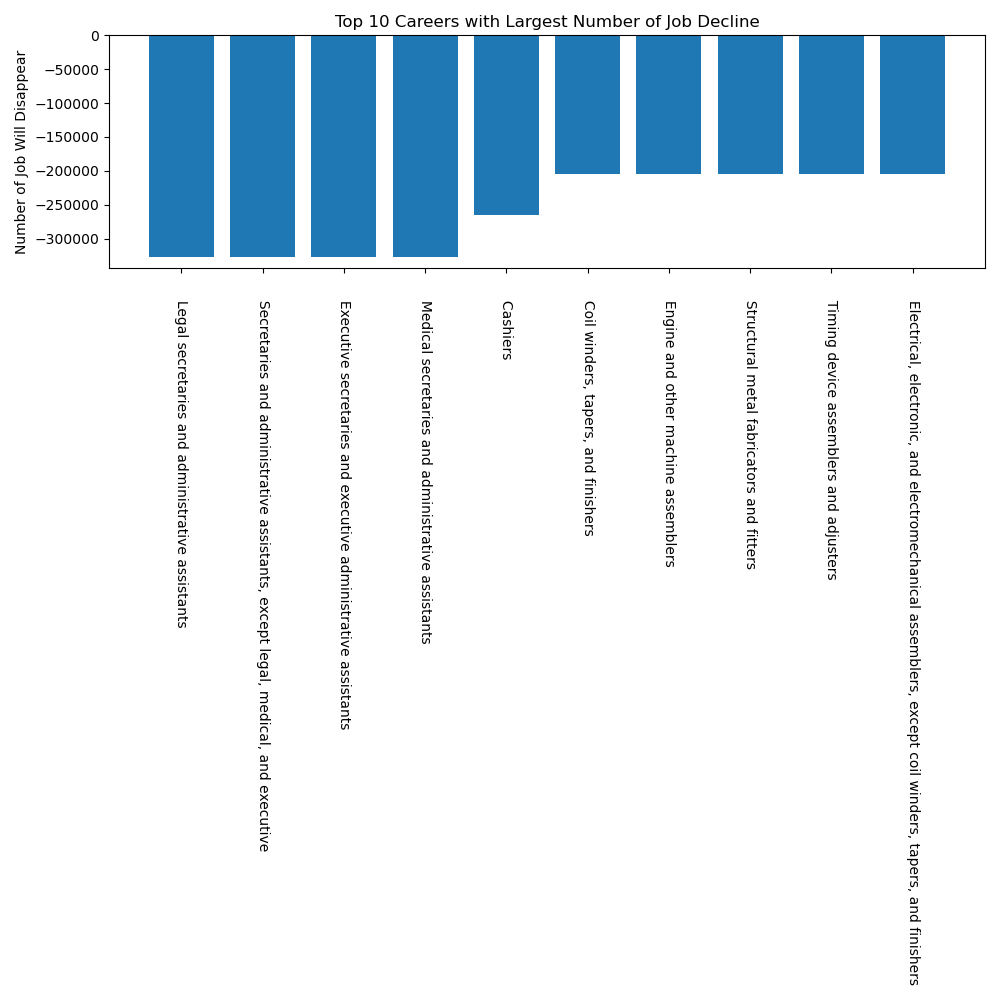
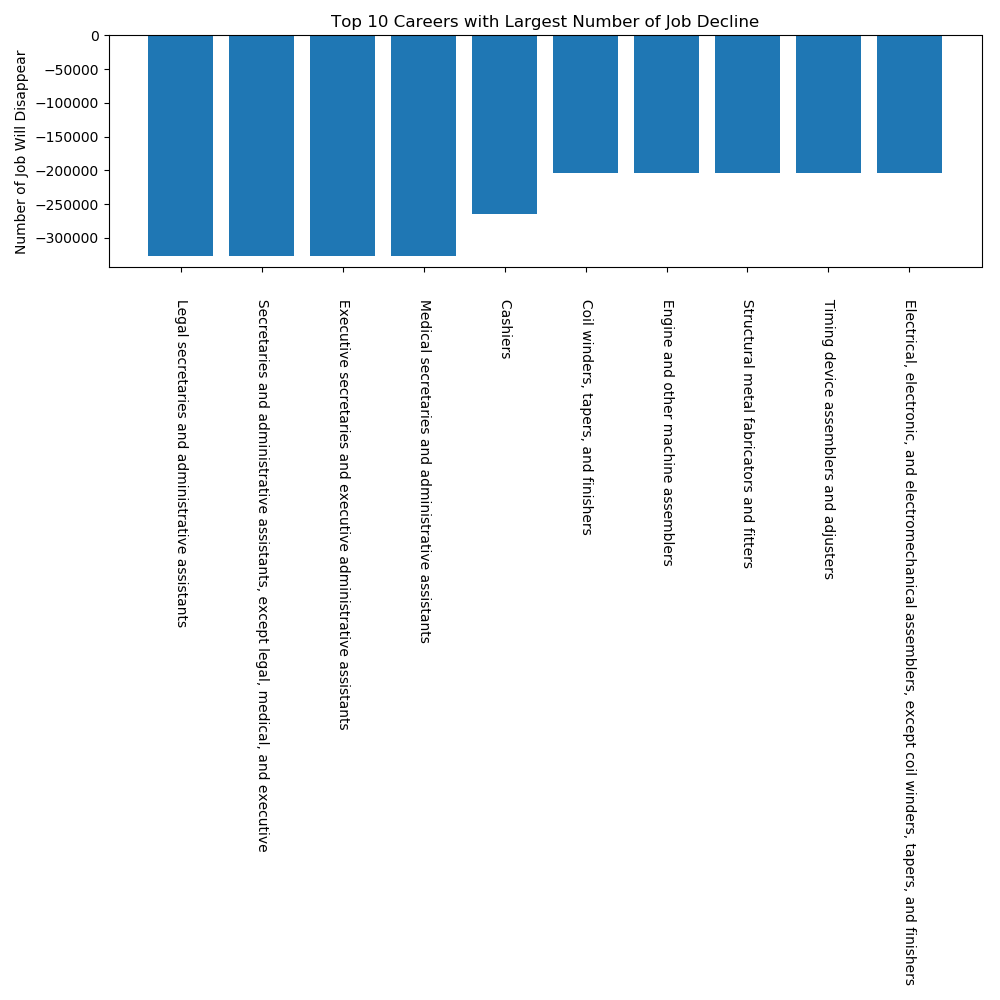
Completed Question 3

diff --git a/scraping.py b/scraping.py
@@ -1,4 +1,10 @@
-import requests 
+"""
+This file contains functions that
+scrape the detailed occupation data from the BLS website.
+"""
+
+
+import requests
 from bs4 import BeautifulSoup
 import csv
 import pandas as pd
@@ -6,56 +12,27 @@ import numpy as np
 from re import search
 
 
-def main():
-    get_occupation_links()
-    
-    occupation_df = pd.read_csv('occupation_links.csv', encoding = "ISO-8859-1")
-    occupation_df = occupation_df.set_index('url')
-
-    """
-    mini_occupation_df = occupation_df.head(10)
-    print(mini_occupation_df)
-
-    link_list = mini_occupation_df.index.tolist()
-
-    counter = 0
-
-    for link in link_list:
-        mini_occupation_df.update(expand_occupation_data(link))
-
-        print("Success!" + " " + str(counter))
-        counter += 1
-
-    mini_occupation_df.to_csv('test_data.csv')
-    """
-    link_list = occupation_df.index.tolist()
-
-    counter = 0
-
-    for link in link_list:
-        occupation_df.update(expand_occupation_data(link))
-
-        print("Success!" + " " + str(counter))
-        counter += 1
-
-    occupation_df.to_csv('occupation_data.csv')
-
-
 def get_occupation_links():
-    URL = "https://www.bls.gov/ooh/occupation-finder.htm?pay=&education=&training=&newjobs=&growth=&submit=GO/"
-    r = requests.get(URL) 
-    
-    soup = BeautifulSoup(r.content, 'html5lib') # If this line causes an error, run 'pip install html5lib' or install html5lib
+    """
+    Parses the URL into the BeautifulSoup format
+    and gets the URLs to the detailed data for each occupation.
+    Then it writes those urls into a CSV file.
+    """
+    URL = ("https://www.bls.gov/ooh/occupation-finder.htm?"
+           "pay=&education=&training=&newjobs=&growth=&submit=GO/")
+    r = requests.get(URL)
+
+    soup = BeautifulSoup(r.content, 'html5lib')
 
     occupations = []
-    
-    table = soup.find('table', attrs = {'id': 'occfinder'})
+
+    table = soup.find('table', attrs={'id': 'occfinder'})
 
     table_body = table.find('tbody')
-    
+
     for row in table_body.findAll('tr'):
-        occupation = {} 
-        occupation['occupation_name'] = row.strong.text 
+        occupation = {}
+        occupation['occupation_name'] = row.strong.text
         occupation['url'] = "https://www.bls.gov" + row.a['href']
         occupation['2019 Median Pay'] = np.nan
         occupation['Typical Entry-Level Education'] = np.nan
@@ -64,19 +41,26 @@ def get_occupation_links():
         occupation['Number of Jobs, 2019'] = np.nan
         occupation['Job Outlook, 2019-29'] = np.nan
         occupation['Employment Change, 2019-29'] = np.nan
-        occupations.append(occupation) 
-    
+        occupations.append(occupation)
+
     filename = 'occupation_links.csv'
-    with open(filename, 'w', newline='') as f: 
-        w = csv.DictWriter(f,['occupation_name','url', '2019 Median Pay',
-                              'Typical Entry-Level Education', 'Work Experience in a Related Occupation',
-                              'On-the-job Training', 'Number of Jobs, 2019', 'Job Outlook, 2019-29', 'Employment Change, 2019-29'])
-        w.writeheader() 
-        for occupation in occupations: 
+    with open(filename, 'w', newline='') as f:
+        w = csv.DictWriter(f, ['occupation_name', 'url', '2019 Median Pay',
+                               'Typical Entry-Level Education',
+                               'Work Experience in a Related Occupation',
+                               'On-the-job Training', 'Number of Jobs, 2019',
+                               'Job Outlook, 2019-29',
+                               'Employment Change, 2019-29'])
+        w.writeheader()
+        for occupation in occupations:
             w.writerow(occupation)
 
 
 def expand_occupation_data(occupation_URL):
+    """
+    Returns detailed occupation data
+    specified by occupation_URL as a DataFrame.
+    """
     if search('about', occupation_URL):
         data = {
             '2019 Median Pay': [np.nan],
@@ -94,12 +78,35 @@ def expand_occupation_data(occupation_URL):
     r = requests.get(occupation_URL)
     df_list = pd.read_html(r.text)
     df = df_list[0]
-    df = df.pivot_table(columns=df.columns[0], values=df.columns[1], aggfunc='first')
-    #df['url'] = occupation_URL
+    df = df.pivot_table(columns=df.columns[0],
+                        values=df.columns[1], aggfunc='first')
     df.insert(6, 'url', occupation_URL)
 
     return df.set_index('url')
-   
+
+
+def main():
+    """
+    Loops through all the links in occupation_links.csv
+    to get the detailed data for all occupations and adds it to a DataFrame.
+    The DataFrame is then written into a csv file.
+    """
+    get_occupation_links()
+
+    occupation_df = pd.read_csv('occupation_links.csv', encoding="ISO-8859-1")
+    occupation_df = occupation_df.set_index('url')
+    link_list = occupation_df.index.tolist()
+
+    counter = 0
+
+    for link in link_list:
+        occupation_df.update(expand_occupation_data(link))
+
+        print("Success!" + " " + str(counter))
+        counter += 1
+
+    occupation_df.to_csv('occupation_data.csv')
+
 
 if __name__ == '__main__':
     main()

diff --git a/analysis.py b/analysis.py
@@ -1,3 +1,9 @@
+"""
+This file contains functions that analyze and plot
+the data in the PayScale and BLS datasets
+"""
+
+
 import pandas as pd
 import numpy as np
 import matplotlib.pyplot as plt
@@ -17,7 +23,7 @@ def plot_employment_growth(data):
     job_name_employment = list(growing_job['occupation_name'])
     Employment_growth = list(growing_job['Employment Change, 2019-29'])
 
-    fig, ax = plt.subplots(figsize=(10,10))
+    fig, ax = plt.subplots(figsize=(10, 10))
 
     plt.bar(job_name_employment, Employment_growth)
     plt.xticks(rotation=270)
@@ -25,10 +31,6 @@ def plot_employment_growth(data):
     plt.ylabel('Number of Job Grow')
     plt.tick_params(axis="x", labelsize=12)
     plt.tight_layout()
-    
-
-    
-
     plt.savefig('Employment_growth_plot')
 
 
@@ -42,7 +44,7 @@ def plot_employment_decline(data):
     Employment_decline = data['Employment Change, 2019-29'].tolist()
     Employment_decline = sorted(Employment_decline, reverse=True)
 
-    fig, ax = plt.subplots(figsize=(10,10))
+    fig, ax = plt.subplots(figsize=(10, 10))
 
     plt.bar(job_name_decline, declining_job['Employment Change, 2019-29'])
     plt.xticks(rotation=270)
@@ -76,7 +78,7 @@ def plot_job_outlook(data):
     job_name = growing_ratio['occupation_name'].tolist()
     Job_outlook = growing_ratio['Job Outlook, 2019-29'].tolist()
 
-    fig, ax = plt.subplots(figsize=(10,10))
+    fig, ax = plt.subplots(figsize=(10, 10))
 
     plt.bar(job_name, Job_outlook)
     plt.xticks(rotation=270)
@@ -84,7 +86,7 @@ def plot_job_outlook(data):
     plt.ylabel('Growth Rate %')
     plt.tick_params(axis="x", labelsize=12)
     plt.tight_layout()
-    
+
     plt.savefig('Job_Outlook_growth_plot')
 
 
@@ -108,10 +110,12 @@ def clean_data_1(data):
     data['Early Career Pay'] = data['Early Career Pay'].map(
                                                 lambda x: x.lstrip(
                                                     'Early Career Pay:$'))
+    data['Early Career Pay'] = data['Early Career Pay'].str.replace(',', '')
     data['Early Career Pay'] = pd.to_numeric(data['Early Career Pay'])
     data['Mid-Career Pay'] = data['Mid-Career Pay'].map(
                                                 lambda x: x.lstrip(
                                                     'Mid-Career Pay:$'))
+    data['Mid-Career Pay'] = data['Mid-Career Pay'].str.replace(',', '')
     data['Mid-Career Pay'] = pd.to_numeric(data['Mid-Career Pay'])
     data['Early Career Pay Rank'] = data['Early Career Pay'].rank(method='max')
     data['Mid-Career Pay Rank'] = data['Mid-Career Pay'].rank(method='max')
@@ -198,6 +202,7 @@ def bottom_10(data):
     plt.show()
 
 # Question 2
+
 
 def clean_data_2(data):
     """
@@ -304,6 +309,37 @@ def doct_10(data):
     plt.show()
 
 
+# Question 3: What are the average salaries for different levels of education?
+def get_average_salary_education_level(data):
+    """
+    This method takes in the cleaned occupation dataset that includes
+    information about the 2019 Median Pay for different levels of education
+    and calculates the average salary for those levels of education
+    """
+    data = \
+        data.groupby('Typical Entry-Level Education')['2019 Median Pay'].mean()
+
+    return data
+
+
+def plot_average_salary_education_level(data):
+    """
+    This method takes in the data calculated by
+    get_average_salary_education_level and plots into a bar chart.
+    """
+    labels = ["Associate's\n degree", "Bachelor's\n degree",
+              "Doctoral\n or professional\ndegree",
+              "High school\n diploma\n or equivalent",
+              "Master's\n degree", "No formal\n education\n credential",
+              "Postsecondary\n nondegree\n award", "Vocational\n Education",
+              "Some college,\n no degree"]
+    plt.figure(figsize=(10, 10))
+    plt.bar(labels, data.tolist(), width=0.25)
+    plt.title('Average Salaries for Different Education Levels')
+    plt.ylabel('Mean Annual Salary')
+    plt.xticks(rotation=45)
+    plt.savefig('average_salary_education.png')
+
 
 def main():
     data_question_1 = pd.read_csv('./occupation_data.csv')
@@ -312,7 +348,8 @@ def main():
     plot_employment_growth(data_question_1)
     plot_job_outlook(data_question_1)
 
-    data_question_4 = pd.read_csv('Final Project Dataset.csv', encoding='cp1252')
+    data_question_4 = pd.read_csv('Final Project Dataset.csv',
+                                  encoding='cp1252')
     data_question_4 = clean_data_1(data_question_4)
     data_question_4 = uw('UW Majors.txt', data_question_4)
     top_10(data_question_4)
@@ -323,6 +360,9 @@ def main():
     bach_10(data_question_2)
     master_10(data_question_2)
     doct_10(data_question_2)
+
+    average_salary_data = get_average_salary_education_level(data_question_2)
+    plot_average_salary_education_level(average_salary_data)
 
 
 if __name__ == '__main__':

diff --git a/Testing.py b/Testing.py
@@ -1,3 +1,8 @@
+"""
+This file contains tests for functions in analysis.py
+"""
+
+
 from cse163_utils import assert_equals
 import analysis
 import pandas as pd
@@ -67,21 +72,36 @@ def test_uw(data):
     assert_equals(expect_uw_majors, given['Major'].tolist())
 
 
+def test_get_average_salary_education_level(data):
+    """
+    This function tests get_average_salary_education_level
+    """
+    expected = [35320, 73300, 95460, 34990, 84950, 39790]
+    given = analysis.get_average_salary_education_level(data)
+    assert_equals(expected, given.tolist())
+
+
 def main():
     # Question 1 testing
     data_question_1 = pd.read_csv('./occupation_data.csv')
 
     # pre data wrangling for the testing, delete all strings
     # in Job Outlook, 2019-29 column
-    data_question_1['Job Outlook, 2019-29'] = data_question_1['Job Outlook, '
-                                        '2019-29'].str.replace(r' \(.*\)', '')
-    data_question_1['Job Outlook, 2019-29'] = data_question_1['Job Outlook, '
-                                        '2019-29'].str.replace('%', '')
-    data_question_1['Job Outlook, 2019-29'] = pd.to_numeric(data_question_1['Job Outlook, 2019-29'])
+    data_question_1['Job Outlook, 2019-29'] = \
+        data_question_1['Job Outlook, 2019-29'].str.replace(r' \(.*\)', '')
+    data_question_1['Job Outlook, 2019-29'] = \
+        data_question_1['Job Outlook, 2019-29'].str.replace('%', '')
+    data_question_1['Job Outlook, 2019-29'] = \
+        pd.to_numeric(data_question_1['Job Outlook, 2019-29'])
 
     test_fastest_growing_job(data_question_1)
     test_employment_declining(data_question_1)
     test_employment_growing(data_question_1)
+
+    # Question 3 testing
+    test_data_3 = analysis.clean_data_2(pd.read_csv('occupation_test2.csv',
+                                                    encoding='cp1252'))
+    test_get_average_salary_education_level(test_data_3)
 
     # Question 2/4 testing
     data_question_4 = pd.read_csv('Payscale Test.csv', encoding='cp1252')
